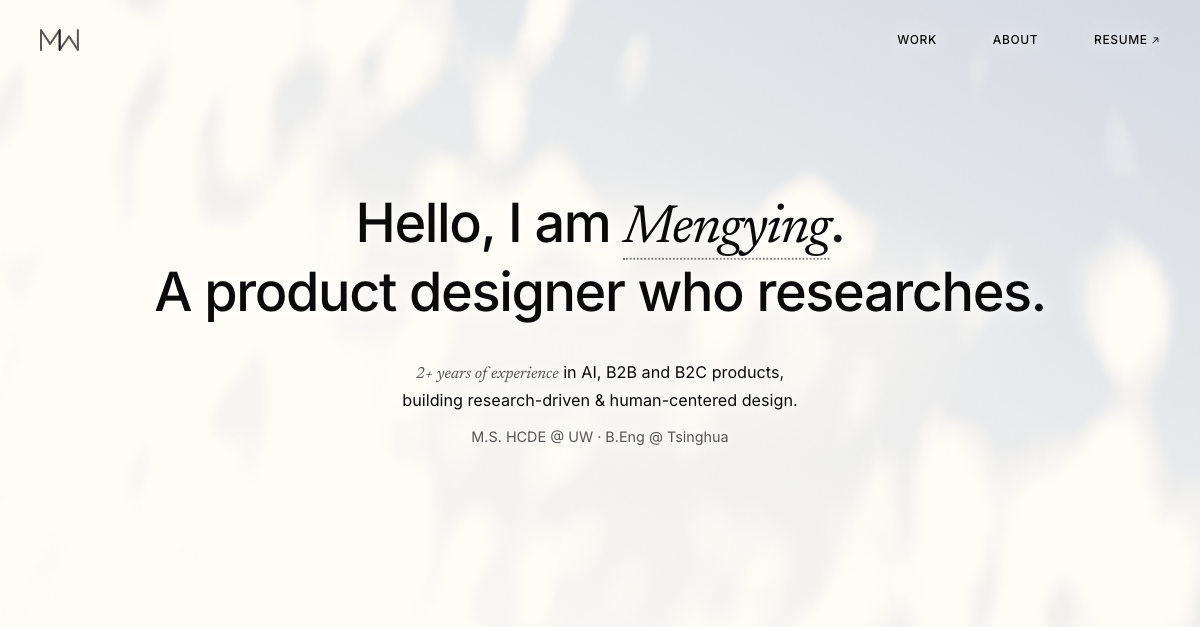
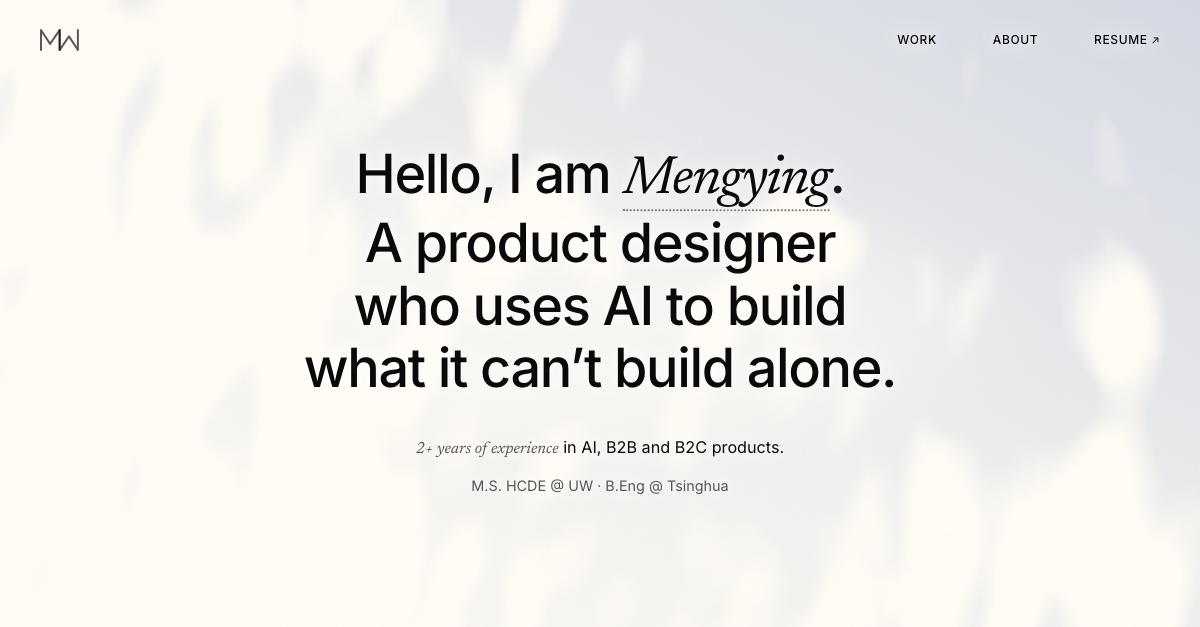
Home hero: new tagline, shorter intro

Changed region(s): [[0.1233, 0.2424, 0.8633, 0.5152], [0.2467, 0.5455, 0.74, 0.7273], [0.4008, 0.7576, 0.6167, 0.7879]]

diff --git a/src/data/site.ts b/src/data/site.ts
@@ -4,9 +4,9 @@ export const site = {
   fullName: 'Mengying Wang',
   title: 'Mengying Wang — UX/Product Designer & Researcher',
   description:
-    'Product designer who researches. AI and B2B products, from 0→1 mobile to enterprise knowledge tools. MS HCDE @ UW · B.Eng Architecture @ Tsinghua.',
+    'Product designer who uses AI to build what it can’t build alone. 2+ years in AI, B2B and B2C products. M.S. HCDE @ UW · B.Eng Architecture @ Tsinghua.',
   /** Default social share card (Open Graph / Twitter); regenerate with `npm run og`. */
-  shareImage: { src: '/og/home.png', width: 1200, height: 627, alt: 'Mengying Wang’s homepage: “Hello, I am Mengying. A product designer who researches.” over soft leaf shadows' },
+  shareImage: { src: '/og/home.png', width: 1200, height: 627, alt: 'Mengying Wang’s homepage: “Hello, I am Mengying. A product designer who uses AI to build what it can’t build alone.” over soft leaf shadows' },
   email: 'mengyingwww712@gmail.com',
   /** Put the file at public/resume.pdf. */
   resume: '/resume.pdf',

diff --git a/src/data/home.ts b/src/data/home.ts
@@ -3,11 +3,11 @@ export const hero = {
   name: 'Mengying',
   /** Cast on the wall as a shadow while the name is hovered. */
   nameShadow: '梦嬴',
-  tagline: 'A product designer who researches.',
+  taglineLead: 'A product designer',
+  taglineRest: 'who uses AI to build what it can’t build alone.',
   /** Rendered in italic serif, directly before `introRest`. */
   introLead: '2+ years of experience',
-  introRest: 'in AI, B2B and B2C products,',
-  introLine2: 'building research-driven & human-centered design.',
+  introRest: 'in AI, B2B and B2C products.',
   /** Quieter line under the intro; it only wraps between items. */
   education: ['M.S. HCDE @ UW', 'B.Eng @ Tsinghua'],
 };
